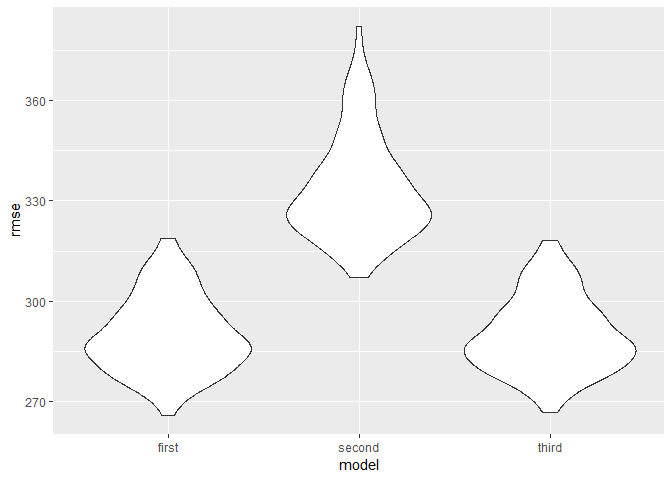
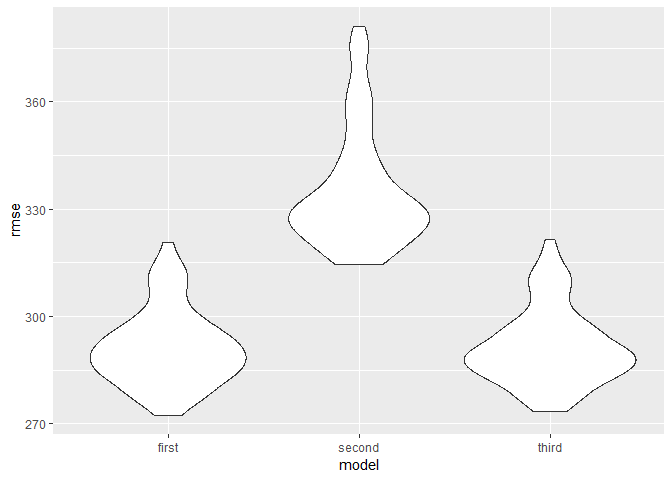
filtered out unknown values

diff --git a/hw6_linearmodels.md b/hw6_linearmodels.md
@@ -56,7 +56,8 @@ homicide_df = homicide_df %>%
   filter(!(city_state == "Phoenix, AZ")) %>% 
   filter(!(city_state == "Dallas, TX")) %>% 
   filter(!(city_state == "Kansas City, MO")) %>% 
-  filter(!(city_state == "Tulsa, AL")) 
+  filter(!(city_state == "Tulsa, AL")) %>% 
+  filter(!(victim_sex == "Unknown"))
 ```
 
 ``` r
@@ -106,12 +107,12 @@ glm_output
     ## # A tibble: 47 x 5
     ##    city_state      term                    OR conf_low conf_high
     ##    <chr>           <chr>                <dbl>    <dbl>     <dbl>
-    ##  1 Albuquerque, NM victim_racenon-white 0.686   0.190      1.18 
+    ##  1 Albuquerque, NM victim_racenon-white 0.716   0.229      1.20 
     ##  2 Atlanta, GA     victim_racenon-white 0.767   0.212      1.32 
     ##  3 Baltimore, MD   victim_racenon-white 0.453   0.111      0.794
     ##  4 Baton Rouge, LA victim_racenon-white 0.656  -0.102      1.41 
     ##  5 Birmingham, AL  victim_racenon-white 1.05    0.527      1.57 
-    ##  6 Boston, MA      victim_racenon-white 0.121  -0.767      1.01 
+    ##  6 Boston, MA      victim_racenon-white 0.134  -0.750      1.02 
     ##  7 Buffalo, NY     victim_racenon-white 0.447  -0.153      1.05 
     ##  8 Charlotte, NC   victim_racenon-white 0.555   0.0200     1.09 
     ##  9 Chicago, IL     victim_racenon-white 0.575   0.310      0.840
